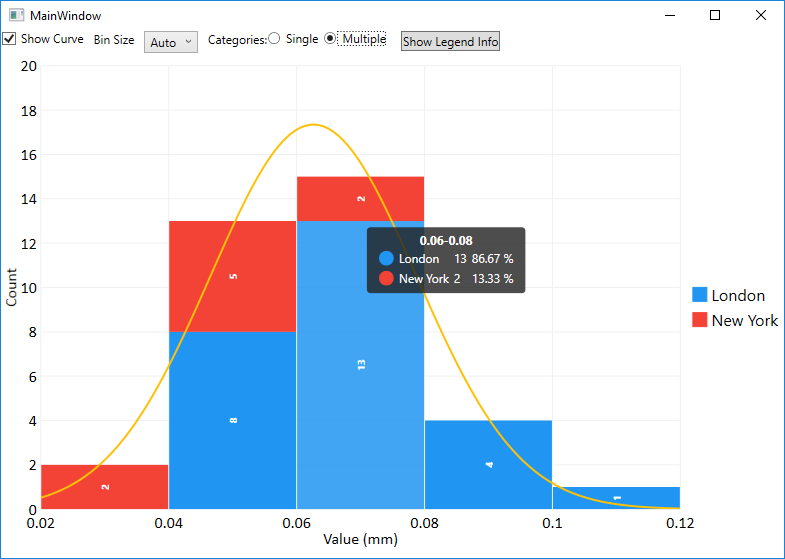
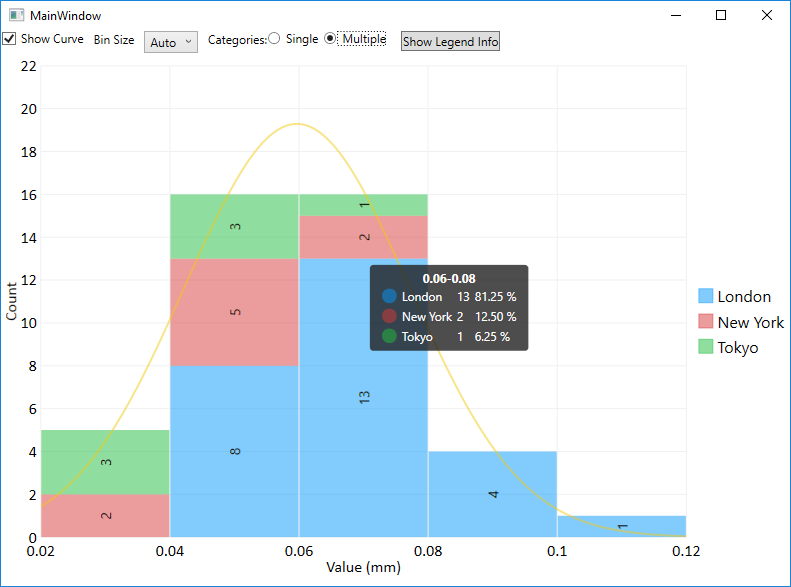
change colors

diff --git a/WpfSimpleHistogram/Histogram.xaml b/WpfSimpleHistogram/Histogram.xaml
@@ -12,6 +12,16 @@
             <Setter Property="Foreground" Value="Black"/>
             <Setter Property="FontSize" Value="16"/>
         </Style>
+        <Style TargetType="lvc:ColumnSeries">
+            <Setter Property="Foreground" Value="Black"/>
+            <Setter Property="FontSize" Value="14"/>
+            <Setter Property="FontWeight" Value="Normal"/>
+        </Style>
+        <Style TargetType="lvc:StackedColumnSeries">
+            <Setter Property="Foreground" Value="Black"/>
+            <Setter Property="FontSize" Value="14"/>
+            <Setter Property="FontWeight" Value="Normal"/>
+        </Style>
         <lvc:Separator x:Key="cvSeparator"/>
     </UserControl.Resources>
     <lvc:CartesianChart x:Name="chart" Series="{Binding SeriesCollection}" DataClick="chart_DataClick" LegendLocation="Right" UpdaterTick="chart_UpdaterTick">

diff --git a/WpfSimpleHistogram/Histogram.xaml.cs b/WpfSimpleHistogram/Histogram.xaml.cs
@@ -6,6 +6,7 @@ using WpfSimpleHistogram.Interface;
 using WpfSimpleHistogram.Model;
 using System;
 using System.Windows.Media;
+using LiveCharts.Wpf.Charts.Base;
 
 namespace WpfSimpleHistogram
 {
@@ -115,6 +116,18 @@ namespace WpfSimpleHistogram
         {
             this.DataContext = new HistogramViewModel();
             InitializeComponent();
+
+            Chart.Colors = new List<Color>
+            {
+                Color.FromArgb(0x80, 0x06, 0x97, 0xFB),
+                Color.FromArgb(0x80, 0xd8, 0x3a, 0x3a),
+                Color.FromArgb(0x80, 0x22, 0xbd, 0x3f),
+                Color.FromArgb(0x80, 0xf1, 0xc9, 0x13),
+                Color.FromArgb(0x80, 0x75, 0x5a, 0x9c),
+                Color.FromArgb(0x80, 0x00, 0xdd, 0xdd),
+                Color.FromArgb(0x80, 0xa0, 0x52, 0x2d),
+                Color.FromArgb(0x80, 0xb2, 0xc0, 0xb2),
+            };
         }
 
         void chart_DataClick(object sender, LiveCharts.ChartPoint chartPoint)

diff --git a/SimpleHistogram/MainWindow.xaml.cs b/SimpleHistogram/MainWindow.xaml.cs
@@ -81,6 +81,13 @@ namespace SimpleHistogram
                 new Item(){ XValue = 0.056, Category = "New York" },
                 new Item(){ XValue = 0.060, Category = "New York" },
                 new Item(){ XValue = 0.071, Category = "New York" },
+                new Item(){ XValue = 0.025, Category = "Tokyo" },
+                new Item(){ XValue = 0.026, Category = "Tokyo" },
+                new Item(){ XValue = 0.029, Category = "Tokyo" },
+                new Item(){ XValue = 0.055, Category = "Tokyo" },
+                new Item(){ XValue = 0.059, Category = "Tokyo" },
+                new Item(){ XValue = 0.061, Category = "Tokyo" },
+                new Item(){ XValue = 0.059, Category = "Tokyo" },
             };
 
             for (int i = 0; i < ret.Count(); i++) (ret[i] as Item).ItemId = i + 1;
